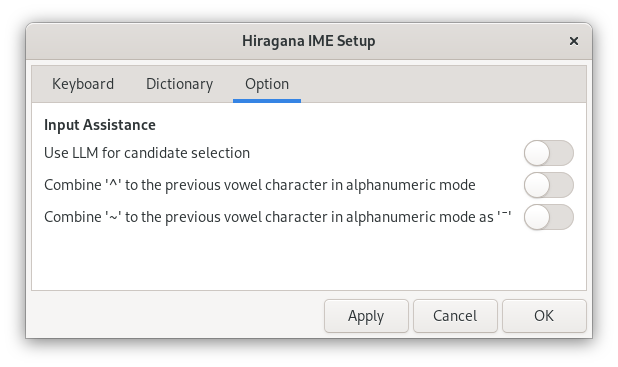
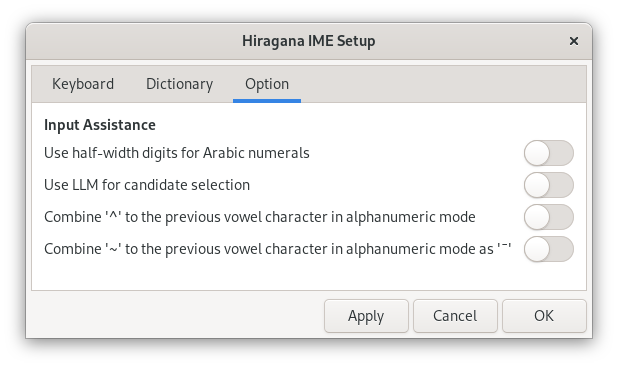
docs: Add use-half-width-digits section
docs/en/ibus-setup-hiragana_1.png
docs/en/ibus-setup-hiragana_2.png
docs/en/ibus-setup-hiragana_3.png
docs/en/settings.html
docs/ibus-setup-hiragana_1.png
docs/ibus-setup-hiragana_2.png
docs/ibus-setup-hiragana_3.png
docs/settings.html
docs_md/en/settings.md
docs_md/settings.md

diff --git a/docs/settings.html b/docs/settings.html
@@ -257,9 +257,28 @@ function shrinkToc() {
 <h2 id="option">オプション タブ</h2>
 <p>&#x3000;オプション タブでは、<ruby>入力<rp>(</rp><rt>にゅうりょく</rt><rp>)</rp></ruby>を<ruby>補助<rp>(</rp><rt>ほじょ</rt><rp>)</rp></ruby>する<ruby>機能<rp>(</rp><rt>きのう</rt><rp>)</rp></ruby>の<ruby>設定<rp>(</rp><rt>せってい</rt><rp>)</rp></ruby>ができます。</p>
 <p><img alt="「ひらがなIMEの設定」ウィンドウ" src="ibus-setup-hiragana_3.png"></p>
+<h3 id="half-width-digits"><ruby>算用数字<rp>(</rp><rt>さんようすうじ</rt><rp>)</rp></ruby>をいつも<ruby>半角<rp>(</rp><rt>はんかく</rt><rp>)</rp></ruby>で<ruby>入力<rp>(</rp><rt>にゅうりょく</rt><rp>)</rp></ruby>する</h3>
+<p>&#x3000;オンにすると、かな<ruby>入力<rp>(</rp><rt>にゅうりょく</rt><rp>)</rp></ruby>モードでも<ruby>算用数字<rp>(</rp><rt>さんようすうじ</rt><rp>)</rp></ruby>を<ruby>半角<rp>(</rp><rt>はんかく</rt><rp>)</rp></ruby>で<ruby>入力<rp>(</rp><rt>にゅうりょく</rt><rp>)</rp></ruby>します。</p>
+<table>
+<thead>
+<tr>
+<th><ruby>設定<rp>(</rp><rt>せってい</rt><rp>)</rp></ruby></th>
+<th><ruby>例<rp>(</rp><rt>れい</rt><rp>)</rp></ruby></th>
+</tr>
+</thead>
+<tbody>
+<tr>
+<td>オフ</td>
+<td>１２、３４５。６７８</td>
+</tr>
+<tr>
+<td>オン</td>
+<td>12,345.678</td>
+</tr>
+</tbody>
+</table>
 <h3 id="llm"><ruby>変換<rp>(</rp><rt>へんかん</rt><rp>)</rp></ruby><ruby>候補<rp>(</rp><rt>こうほ</rt><rp>)</rp></ruby>の<ruby>選択<rp>(</rp><rt>せんたく</rt><rp>)</rp></ruby>に<ruby>大規模<rp>(</rp><rt>だいきぼ</rt><rp>)</rp></ruby><ruby>言語<rp>(</rp><rt>げんご</rt><rp>)</rp></ruby>モデルを<ruby>利用<rp>(</rp><rt>りよう</rt><rp>)</rp></ruby>する</h3>
-<p>&#x3000;いわゆるAIを<ruby>利用<rp>(</rp><rt>りよう</rt><rp>)</rp></ruby>した<ruby>機能<rp>(</rp><rt>きのう</rt><rp>)</rp></ruby>です。オンにすると、<ruby>変換<rp>(</rp><rt>へんかん</rt><rp>)</rp></ruby><ruby>候補<rp>(</rp><rt>こうほ</rt><rp>)</rp></ruby>のなかで<ruby>選択<rp>(</rp><rt>せんたく</rt><rp>)</rp></ruby>する<ruby>確率<rp>(</rp><rt>かくりつ</rt><rp>)</rp></ruby>のたかい<ruby>候補<rp>(</rp><rt>こうほ</rt><rp>)</rp></ruby>を<ruby>文脈<rp>(</rp><rt>ぶんみゃく</rt><rp>)</rp></ruby>から<ruby>計算<rp>(</rp><rt>けいさん</rt><rp>)</rp></ruby>します。そして、もっとも<ruby>確率<rp>(</rp><rt>かくりつ</rt><rp>)</rp></ruby>のたかい<ruby>候補<rp>(</rp><rt>こうほ</rt><rp>)</rp></ruby>をあらかじめ<ruby>選択<rp>(</rp><rt>せんたく</rt><rp>)</rp></ruby>した<ruby>状態<rp>(</rp><rt>じょうたい</rt><rp>)</rp></ruby>で<ruby>表示<rp>(</rp><rt>ひょうじ</rt><rp>)</rp></ruby>します。</p>
-<p>&#x3000;たとえば、「のぼる」を<ruby>変換<rp>(</rp><rt>へんかん</rt><rp>)</rp></ruby>するときは、<ruby>文脈<rp>(</rp><rt>ぶんみゃく</rt><rp>)</rp></ruby>に<ruby>応<rp>(</rp><rt>おう</rt><rp>)</rp></ruby>じてつぎのように<ruby>選択<rp>(</rp><rt>せんたく</rt><rp>)</rp></ruby>されている<ruby>候補<rp>(</rp><rt>こうほ</rt><rp>)</rp></ruby>がかわります。</p>
+<p>&#x3000;オンにすると、<ruby>文脈<rp>(</rp><rt>ぶんみゃく</rt><rp>)</rp></ruby><ruby>中<rp>(</rp><rt>ちゅう</rt><rp>)</rp></ruby>の<ruby>変換<rp>(</rp><rt>へんかん</rt><rp>)</rp></ruby><ruby>候補<rp>(</rp><rt>こうほ</rt><rp>)</rp></ruby>の<ruby>出現<rp>(</rp><rt>しゅつげん</rt><rp>)</rp></ruby><ruby>確率<rp>(</rp><rt>かくりつ</rt><rp>)</rp></ruby>を<ruby>計算<rp>(</rp><rt>けいさん</rt><rp>)</rp></ruby>し、もっとも<ruby>確率<rp>(</rp><rt>かくりつ</rt><rp>)</rp></ruby>のたかい<ruby>候補<rp>(</rp><rt>こうほ</rt><rp>)</rp></ruby>をあらかじめ<ruby>選択<rp>(</rp><rt>せんたく</rt><rp>)</rp></ruby>しておきます。たとえば、「のぼる」を<ruby>変換<rp>(</rp><rt>へんかん</rt><rp>)</rp></ruby>するときは、<ruby>文脈<rp>(</rp><rt>ぶんみゃく</rt><rp>)</rp></ruby>に<ruby>応<rp>(</rp><rt>おう</rt><rp>)</rp></ruby>じてつぎのように<ruby>選択<rp>(</rp><rt>せんたく</rt><rp>)</rp></ruby>されている<ruby>候補<rp>(</rp><rt>こうほ</rt><rp>)</rp></ruby>がかわります。</p>
 <ul>
 <li><ruby>山<rp>(</rp><rt>やま</rt><rp>)</rp></ruby>に<span style="background-color:#d1eaff">登る</span></li>
 <li><ruby>日<rp>(</rp><rt>ひ</rt><rp>)</rp></ruby>が<span style="background-color:#d1eaff">昇る</span></li>

diff --git a/docs/en/settings.html b/docs/en/settings.html
@@ -300,8 +300,28 @@ To reset the orders to the initial state, turn on the <strong>Clear input histor
 <h2 id="option">Option Tab</h2>
 <p>You can customize the input assistance feature.</p>
 <p><img alt="「Hiragana IME Setup」Window" src="ibus-setup-hiragana_3.png"></p>
+<h3 id="half-width-digits">Use half-width digits for Arabic numerals</h3>
+<p>When enabled, the Hiragana IME enters Arabic numerals using half-width letters, even in Hiragana mode.</p>
+<table>
+<thead>
+<tr>
+<th>Setting</th>
+<th>Example</th>
+</tr>
+</thead>
+<tbody>
+<tr>
+<td>Off</td>
+<td>１２、３４５。６７８</td>
+</tr>
+<tr>
+<td>On</td>
+<td>12,345.678</td>
+</tr>
+</tbody>
+</table>
 <h3 id="llm">Use LLM for candidate selection</h3>
-<p>This feature utilizes so-called <em>AI</em>. LLM stands for Large Language Model.
+<p>LLM stands for Large Language Model.
 When enabled, the Hiragana IME calculates the probabilities of each candidate's occurrence in its surrounding text and pre-selects the most probable candidate in the candidate window.</p>
 <p>For example, when converting 'のぼる', the pre-selected candidate changes as below depending on the surrounding text:</p>
 <ul>

diff --git a/docs_md/settings.md b/docs_md/settings.md
@@ -116,12 +116,19 @@
 
 ![「ひらがなIMEの設定」ウィンドウ](ibus-setup-hiragana_3.png)
 
+### 算用数字さんようすうじをいつも半角はんかくで入力にゅうりょくする {: #half-width-digits}
+
+　オンにすると、かな入力にゅうりょくモードでも算用数字さんようすうじを半角はんかくで入力にゅうりょくします。
+
+設定せってい | 例れい
+--|--
+オフ | １２、３４５。６７８
+オン | 12,345.678
+
 ### 変換へんかん候補こうほの選択せんたくに大規模だいきぼ言語げんごモデルを利用りようする {: #llm}
 
-　いわゆるAIを利用りようした機能きのうです。
-オンにすると、変換へんかん候補こうほのなかで選択せんたくする確率かくりつのたかい候補こうほを文脈ぶんみゃくから計算けいさんします。
-そして、もっとも確率かくりつのたかい候補こうほをあらかじめ選択せんたくした状態じょうたいで表示ひょうじします。
-　たとえば、「のぼる」を変換へんかんするときは、文脈ぶんみゃくに応おうじてつぎのように選択せんたくされている候補こうほがかわります。
+　オンにすると、文脈ぶんみゃく中ちゅうの変換へんかん候補こうほの出現しゅつげん確率かくりつを計算けいさんし、もっとも確率かくりつのたかい候補こうほをあらかじめ選択せんたくしておきます。
+たとえば、「のぼる」を変換へんかんするときは、文脈ぶんみゃくに応おうじてつぎのように選択せんたくされている候補こうほがかわります。
 
 - 山やまに<span style="background-color:#d1eaff">登る</span>
 - 日ひが<span style="background-color:#d1eaff">昇る</span>

diff --git a/docs_md/en/settings.md b/docs_md/en/settings.md
@@ -128,9 +128,18 @@ You can customize the input assistance feature.
 
 ![「Hiragana IME Setup」Window](ibus-setup-hiragana_3.png)
 
+### Use half-width digits for Arabic numerals {: #half-width-digits}
+
+When enabled, the Hiragana IME enters Arabic numerals using half-width letters, even in Hiragana mode.
+
+Setting | Example
+--|--
+Off | １２、３４５。６７８
+On | 12,345.678
+
 ### Use LLM for candidate selection {: #llm}
 
-This feature utilizes so-called *AI*. LLM stands for Large Language Model.
+LLM stands for Large Language Model.
 When enabled, the Hiragana IME calculates the probabilities of each candidate's occurrence in its surrounding text and pre-selects the most probable candidate in the candidate window.
 
 For example, when converting 'のぼる', the pre-selected candidate changes as below depending on the surrounding text:
